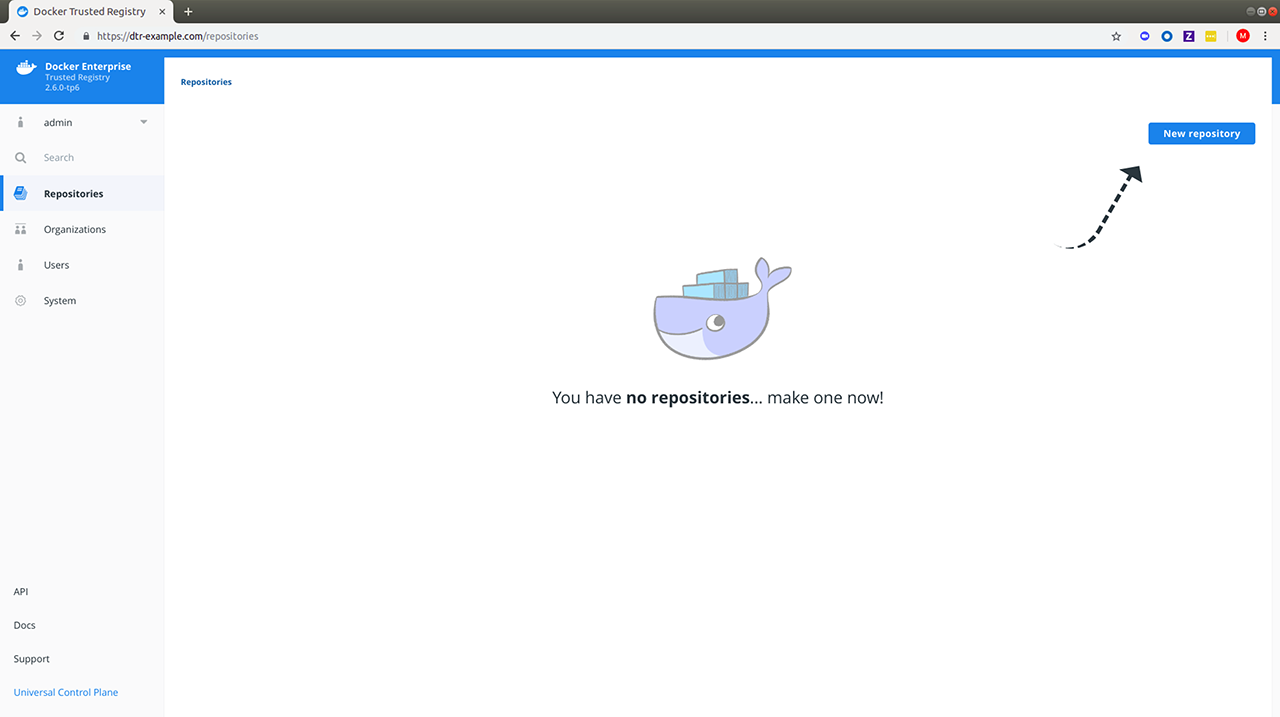
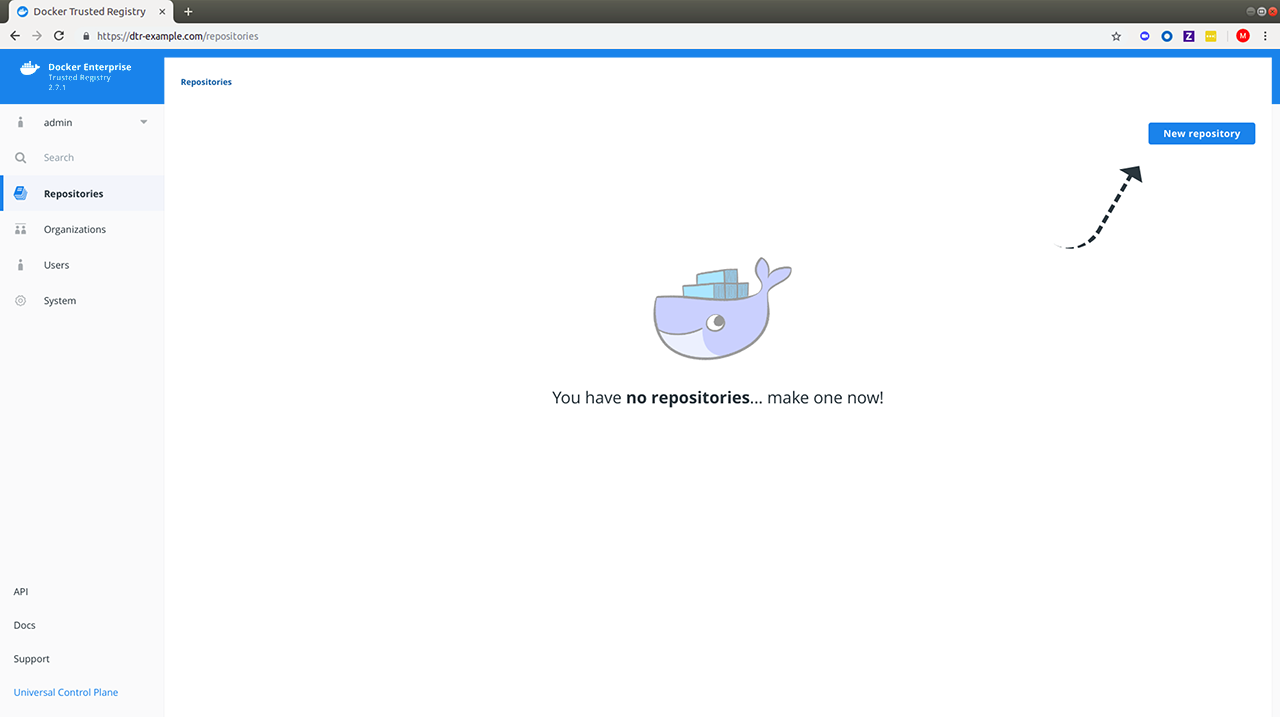
Added summary step list, edits, updated DTR image.

Changed region(s): [[0.0, 0.0614, 1.0, 0.1534]]

diff --git a/ee/dtr/admin/install/index.md b/ee/dtr/admin/install/index.md
@@ -10,40 +10,44 @@ Docker Trusted Registry (DTR) is a containerized application that runs on a
 swarm managed by the Universal Control Plane (UCP). It can be installed
 on-premises or on a cloud infrastructure.
 
-## Step 1. Validate the system requirements
+DTR installation is comprised of seven distinct steps:
 
-Before installing DTR, make sure your
-infrastructure meets the [system requirements](./system-requirements) that DTR
-needs to run.
+  1. [Validate System Requirements](validate-the-system-requirements)
+  2. [Install UCP](install-ucp)
+  3. [Install DTR](install-dtr)
+  4. [Confirm that DTR is Running](confirm-that-dtr-is-running)
+  5. [Configure DTR](configure-dtr)
+  6. [Push/Pull Testing](push/pull-testing)
+  7. [Join Replicas to the Cluster](join-replicas-top-the-cluster) (optional)
 
-## Step 2. Install UCP
+## 1. Validate the System Requirements
 
-DTR requires Docker Universal Control Panel (UCP) to run. If UCP is not yet installed, refer to [install UCP for production](/ee/ucp/admin/install/).
+Before installing DTR, confirm that your infrastructure meets DTR's [system requirements](./system-requirements).
+
+## 2. Install UCP
+
+To run, DTR requires Docker Enterprise's Docker Universal Control Panel (UCP). If UCP is not yet installed, refer to [install UCP for production](/ee/ucp/admin/install/).
+
+## 3. Install DTR
 
 >**Note**
 >
 > Prior to installing DTR:
-> * When upgrading, upgrade UCP before DTR for each major version. For example,
-> if you are upgrading four major versions, upgrade one major version at a
-> time, first UCP, then DTR, and then repeat for the remaining three versions.
-> * UCP upgraded to the most recent version before an
-> initial install of DTR.
-> * Docker Engine should be updated to the most recent version before
-> installing or updating UCP.
+> * When upgrading, upgrade UCP before DTR for each major version. For example if you are upgrading four major versions, upgrade one major version at a time, first UCP, then DTR, and then repeat for the remaining three versions.
+> * UCP upgraded to the most recent version before an initial install of DTR.
+> * Docker Engine should be updated to the most recent version before installing or updating UCP.
 
 DTR and UCP must not be installed on the same node, due to the potential for resource and port conflicts. Instead, install DTR on worker nodes that will be managed by UCP. Note also that DTR cannot be installed on a standalone Docker Engine.
 
 ![](../../images/install-dtr-1.svg)
 
+1. As an admin, access the UCP web interface.
 
-## Step 3. Install DTR
-
-1. Once UCP is installed, navigate to the UCP web interface as an admin. Expand
-your profile on the left navigation pane, and select **Admin Settings > Docker Trusted Registry**.
+2. Expand your profile in the UI's left navigation pane and select **Admin Settings > Docker Trusted Registry**.
 
     ![](../../images/install-dtr-2.png){: .with-border}
 
-2. After you configure all the options, you should see a Docker CLI command that you can use to install DTR. Before you run the command, take note of the `--dtr-external-url` parameter:
+3. Configure all DTR options. Once this is done, a Docker CLI command will display, which you can use to install DTR. Before running the command, though, take note of the `--dtr-external-url` parameter:
 
       ```bash
       $ docker run -it --rm \
@@ -54,99 +58,68 @@ your profile on the left navigation pane, and select **Admin Settings > Docker T
         --ucp-url <ucp-url>
       ```
 
-    If you want to point this parameter to a load balancer that uses HTTP for
-    health probes over port `80` or `443`, temporarily reconfigure the load
-    balancer to use TCP over a known open port. Once DTR is installed, you can configure the load balancer however you need to.
+    To point the parameter to a load balancer that uses HTTP for health probes over port `80` or `443`, temporarily reconfigure the load balancer to use TCP over a known open port. Once DTR is installed, you can configure the load balancer as necessary.
 
-3. Run the DTR install command on any node connected to the UCP cluster, and with the Docker Engine installed. DTR will not be installed on the node you run
-the install command on. DTR will be installed on the UCP worker defined by the
-`--ucp-node` flag.
+4. Run the DTR install command on any node connected to the UCP cluster on which the Docker Engine is installed. Note that DTR will not be installed on the node on which the install command is run, but on the UCP worker defined by the `--ucp-node` flag. For example, it is possible to SSH into a UCP node and run the DTR install command from there. When running the installation command in interactive TTY or `-it` mode, you will be prompted for any required additional information. [Learn more about installing DTR](/reference/dtr/2.7/cli/install/).
 
-    For example, you could SSH into a UCP node and run the DTR install command
-    from there.  Running the installation command in interactive TTY or `-it` mode
-    means you will be prompted for any required additional information.  [Learn more about installing DTR](/reference/dtr/2.7/cli/install/).
+    * To install a specific version of DTR, replace `{{ page.dtr_version }}` with the  desired version in the [installation command](#step-3-install-dtr). (All DTR versions can be found on the [DTR release notes](/ee/dtr/release-notes/) page.)
 
-    Here are some useful options you can set during installation:
-    * To install a specific version of DTR, replace `{{ page.dtr_version }}` with
-    your desired version in the [installation command](#step-3-install-dtr)
-    above. Find all DTR versions in the [DTR release notes](/ee/dtr/release-notes/)
-    page.
+    * As DTR is deployed with self-signed certificates by default, UCP might not be able to pull images it. To automatically configure UCP to trust DTR, use the `--dtr-external-url <dtr-domain>:<port>` optional flag during installation, or during a reconfiguration.
 
-    * DTR is deployed with self-signed certificates by default, so UCP might not be
-    able to pull images from DTR. Use the `--dtr-external-url <dtr-domain>:<port>`
-    optional flag during installation, or during a reconfiguration, so that UCP is
-    automatically reconfigured to trust DTR.
+    * With DTR 2.7, it is possible to [enable browser authentication via client
+    certificates](/ee/enable-client-certificate-authentication/) at the time of install, and thus remove the need to enter user credentials.
 
-    * With DTR 2.7, you can [enable browser authentication via client
-    certificates](/ee/enable-client-certificate-authentication/) at install
-    time. This bypasses the DTR login page and hides the logout button, thereby
-    skipping the need for entering your username and password.
+5. Verify that DTR is installed, either by navigating to `https://<ucp-fqdn>/manage/settings/dtr`, or by navigating in the UCP web UI to **Admin Settings > Docker Trusted Registry**.
 
-4. Verify that DTR is installed. Either:
-    *  See `https://<ucp-fqdn>/manage/settings/dtr`, or;
+    Under the hood, UCP modifies `/etc/docker/certs.d` for each host and adds DTR's CA certificate. UCP can then pull images from DTR because the Docker Engine for each node in the UCP swarm has been configured to trust DTR.
 
-    *  Navigate to **Admin Settings > Docker Trusted Registry** from the UCP web UI. Under the hood, UCP modifies `/etc/docker/certs.d` for each host and adds DTR's CA certificate. UCP can then pull images from DTR because the Docker Engine for each node in the UCP swarm has been configured to trust DTR.
-
-5. Reconfigure your load balancer back to your desired protocol and port.
+6. Reconfigure the load balancer back to the desired protocol and port.
 
 
-## Step 4. Check that DTR is running
+## 4. Confirm that DTR is Running
 
-1. In your browser, navigate to the UCP web interface.
+1. Using a browser, navigate to the UCP web interface.
 
-2. Select **Shared Resources > Stacks** from the left navigation pane. You should see DTR listed as a stack.
+2. Select **Shared Resources > Stacks** in the left navigation pane. DTR should be listed as a stack.
 
-3. To verify that DTR is accessible from the browser, enter your DTR IP address or FQDN on the address bar.
-Since [HSTS (HTTP Strict-Transport-Security)
-header](https://en.wikipedia.org/wiki/HTTP_Strict_Transport_Security) is included in all API responses,
-make sure to specify the FQDN (Fully Qualified Domain Name) of your DTR prefixed with `https://`,
-or your browser may refuse to load the web interface.
+3. Verify that DTR is accessible from the browser by entering the DTR IP address or FQDN on the address bar. As an [HSTS (HTTP Strict-Transport-Security)
+header](https://en.wikipedia.org/wiki/HTTP_Strict_Transport_Security) is included in all API responses, make sure to specify the FQDN (Fully Qualified Domain Name) of the DTR instance prefixed with `https://` or the web interface may fail to load.
 
     ![](../../images/create-repository-1.png){: .with-border}
 
 
-## Step 5. Configure DTR
+## 5. Configure DTR
 
-After installing DTR, you should configure:
+Once DTR has been successfully installed, configure the certificates used for TLS communication ([learn more](../configure/use-your-own-tls-certificates.md)) and the storage backend in which to store the Docker images ([learn more](../configure/external-storage/index.md)).
 
-  * The certificates used for TLS communication. [Learn more](../configure/use-your-own-tls-certificates.md).
-  * The storage backend to store the Docker images. [Learn more](../configure/external-storage/index.md).
+### Web Interface
 
-### Web interface
+  * To update the TLS certificates, access DTR from the browser and navigate to **System > General**.
+  * To configure the storage backend, navigate to **System > Storage**. If you are upgrading and changing the existing storage backend, refer to [Switch storage backends](/ee/dtr/admin/configure/external-storage/storage-backend-migration/).
 
-  * To update your TLS certificates, access DTR from the browser and navigate to **System > General**.
-  * To configure your storage backend, navigate to **System > Storage**. If you are upgrading and changing your existing storage backend, see [Switch storage backends](/ee/dtr/admin/configure/external-storage/storage-backend-migration/) for recommended steps.
+### Command Line Interface
 
-### Command line interface
+  To reconfigure DTR using the CLI, refer to the [the reconfigure command](/reference/dtr/2.7/cli/reconfigure/) reference page.
 
-  To reconfigure DTR using the CLI, see the reference page for [the reconfigure command](/reference/dtr/2.7/cli/reconfigure/).
+## 6. Push and Pull Testing
 
-## Step 6. Test pushing and pulling
-
-Now that you have a working installation of DTR, you should test that you can
-push and pull images:
+Once the DTR instance is up and running, test whether images can be pushed and pulled.
 
 * [Configure your local Docker Engine](../../user/access-dtr/index.md)
 * [Create a repository](../../user/manage-images/index.md)
 * [Push and pull images](../../user/manage-images/pull-and-push-images.md)
 
-## Step 7. Join replicas to the cluster
+## 7. Join Replicas to the Cluster (optional)
 
-This step is optional.
+To set up DTR for high availability, add more replicas to your DTR cluster. Doing this allows for the load-balancing of requests across all replicas, and it will keep DTR working in the event that a replica fails.
 
-To set up DTR for high availability,
-you can add more replicas to your DTR cluster. Adding more replicas allows you
-to load-balance requests across all replicas, and keep DTR working if a
-replica fails.
-
-For high-availability, you should set 3 or 5 DTR replicas. The replica nodes also need
-to be managed by the same UCP.
+For high-availability, set 3 or 5 DTR replicas. in addition, t\he replica nodes must be managed by the same UCP.
 
 To add replicas to a DTR cluster, use the [join](/reference/dtr/2.7/cli/join/) command:
 
-1. Load your [UCP user bundle](/ee/ucp/user-access/cli/#use-client-certificates).
+1. Load the [UCP user bundle](/ee/ucp/user-access/cli/#use-client-certificates).
 
-2.  Run the join command.
+2.  Run the `join` command.
 
     ```bash
     docker run -it --rm \
@@ -155,21 +128,16 @@ To add replicas to a DTR cluster, use the [join](/reference/dtr/2.7/cli/join/) c
       --ucp-insecure-tls
     ```
 
-    > --ucp-node
+    > Important
     >
-    > The `<ucp-node-name>` following the `--ucp-node` flag is the target node to
-    > install the DTR replica. This is NOT the UCP Manager URL.
+    > The `<ucp-node-name>` following the `--ucp-node` flag is the target node on which to install the DTR replica. It is NOT the UCP Manager URL.
     {: .important}
 
-    When you join a replica to a DTR cluster, you need to specify the
-    ID of a replica that is already part of the cluster. You can find an
-    existing replica ID by going to the **Shared Resources > Stacks** page on UCP.
-    
-3. Check that all replicas are running.
+    When joining a replica to a DTR cluster, it is necessary to specify the
+    ID of a replica that is already part of the cluster. Locate an
+    existing replica ID on the **Shared Resources > Stacks** UCP page.
 
-    In your browser, navigate to UCP's
-    web interface. Select **Shared Resources > Stacks**. All replicas should
-    be displayed.
+3. Confirm that all replicas are running by navigating to UCP's web interface and selecting **Shared Resources > Stacks**. All replicas should display.
 
     ![](../../images/install-dtr-6.png){: .with-border}
 
